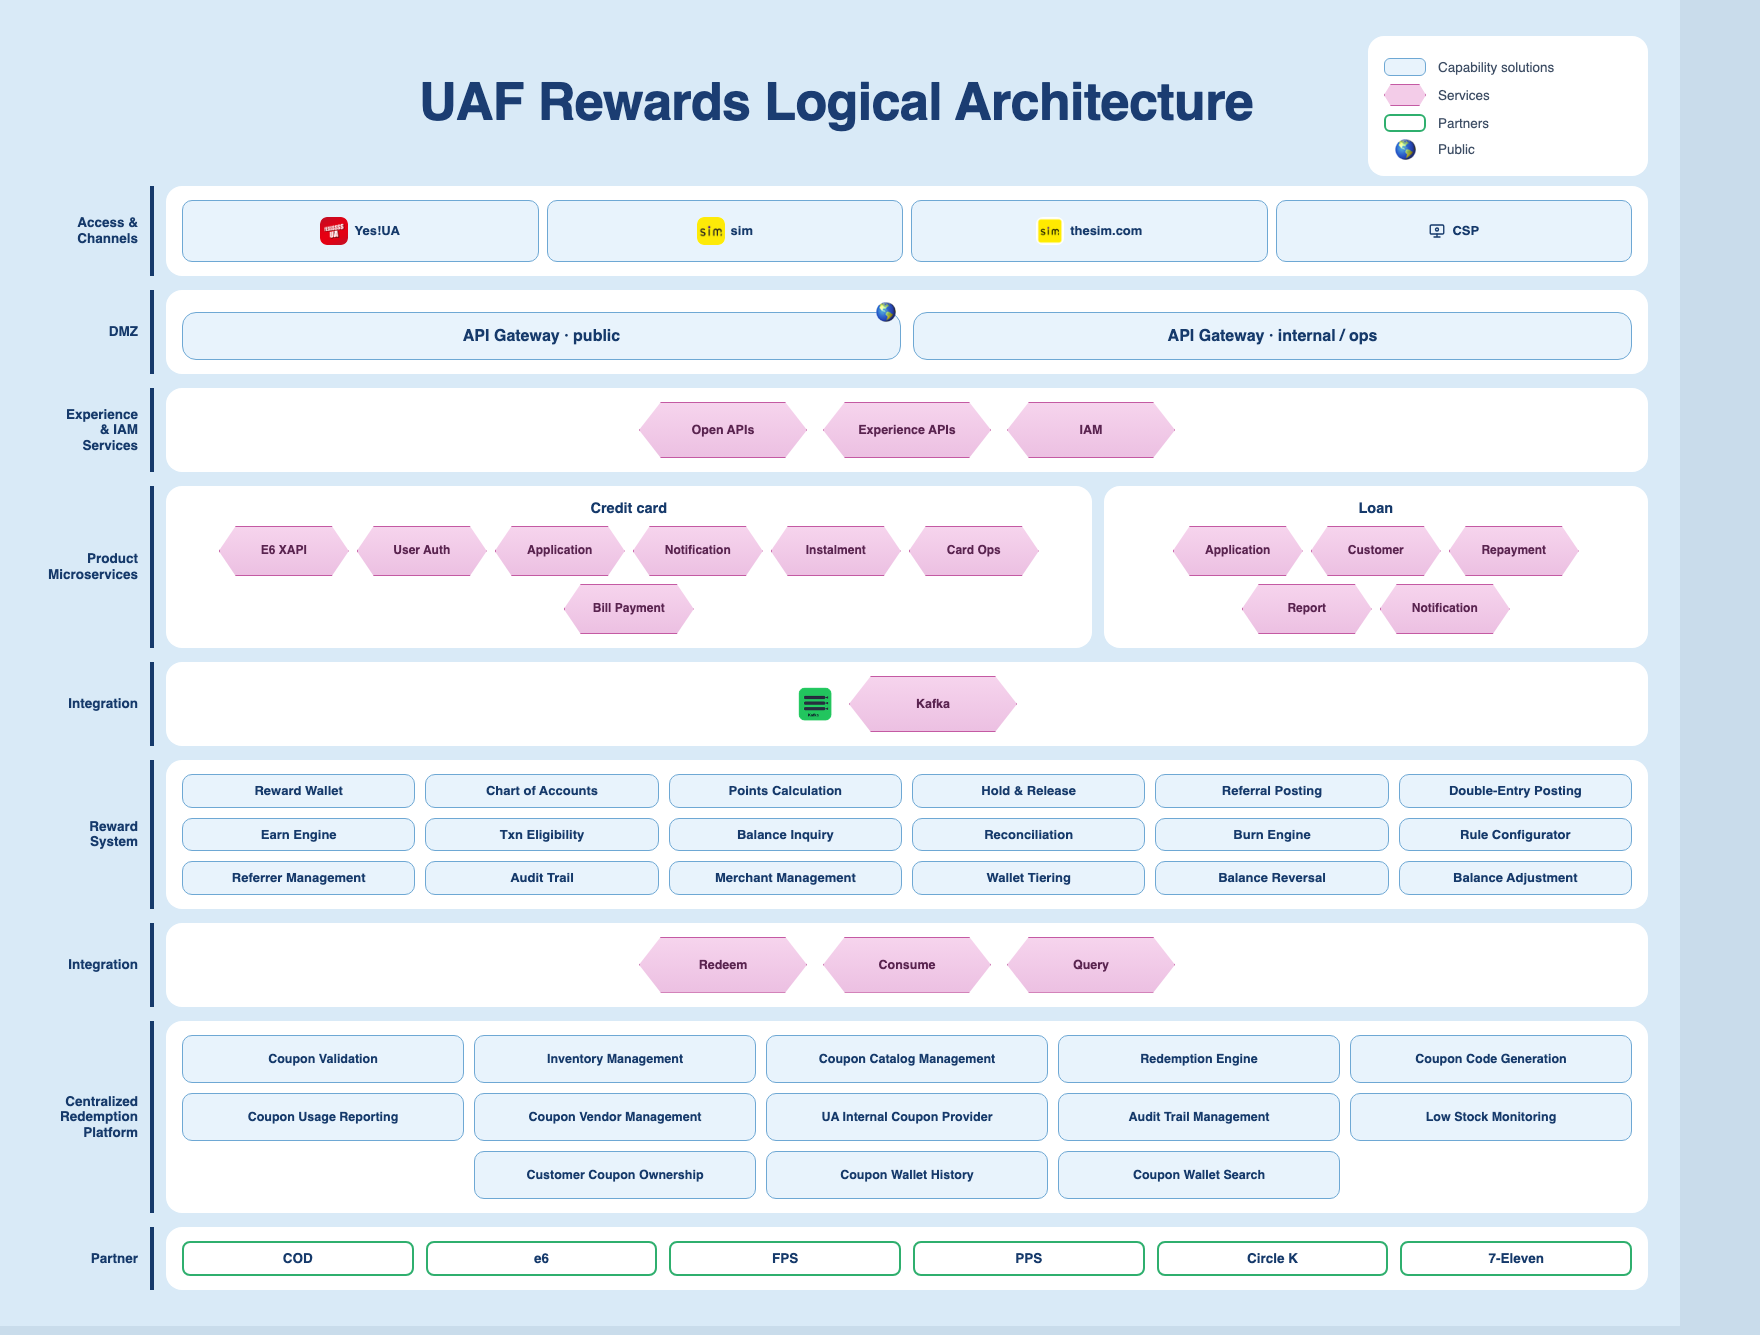
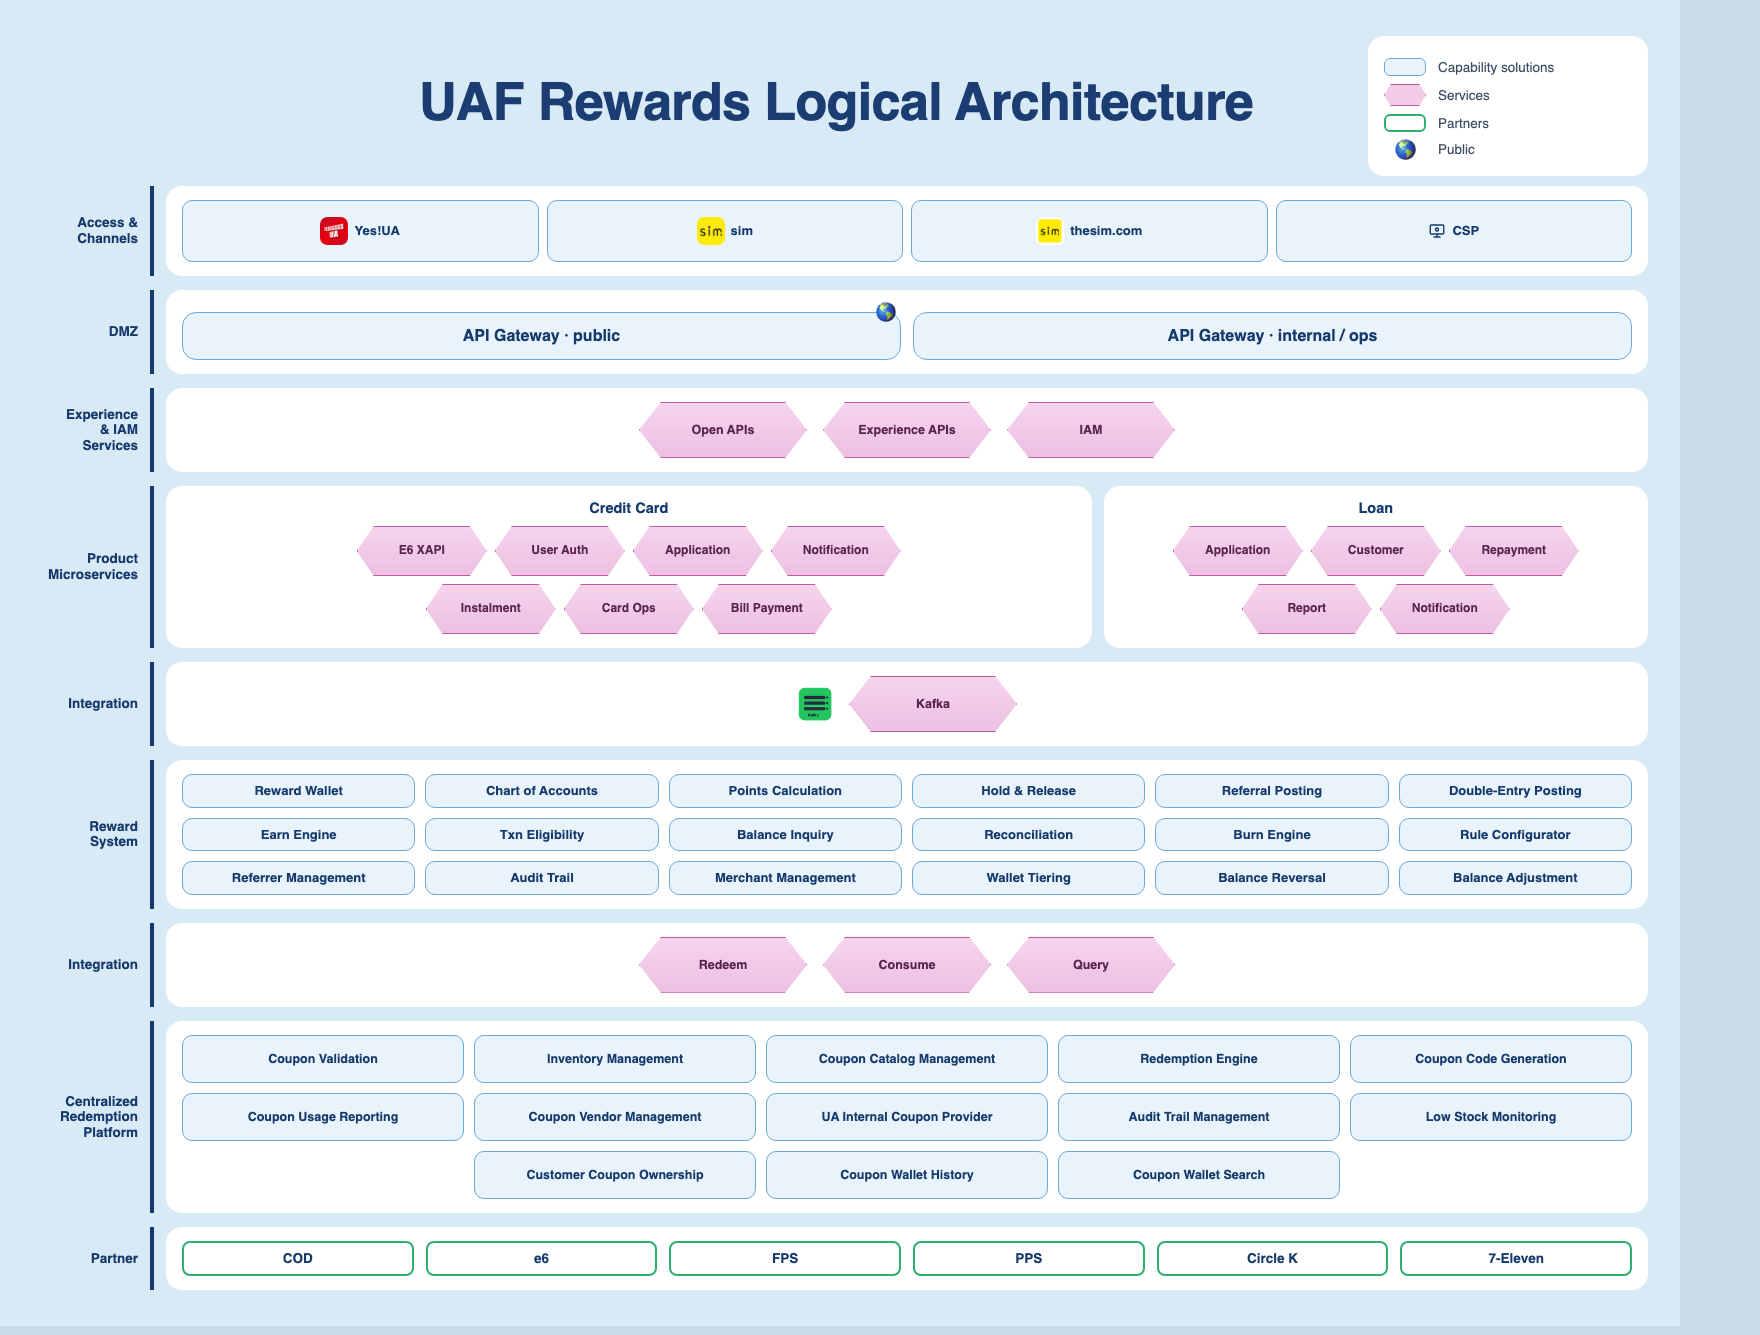
docs(decks): Credit Card title; hexes split 4+3 rows

diff --git a/docs/decks/uaf-rewards-logical-architecture.html b/docs/decks/uaf-rewards-logical-architecture.html
@@ -127,12 +127,14 @@
     <div class="lab l4">Product<br>Microservices</div>
     <div class="prod c4">
       <div class="island">
-        <h3>Credit card</h3>
+        <h3>Credit Card</h3>
         <div class="hexrow">
           <div class="svc">E6 XAPI</div>
           <div class="svc">User Auth</div>
           <div class="svc">Application</div>
           <div class="svc">Notification</div>
+        </div>
+        <div class="hexrow" style="margin-top:8px">
           <div class="svc">Instalment</div>
           <div class="svc">Card Ops</div>
           <div class="svc">Bill Payment</div>
